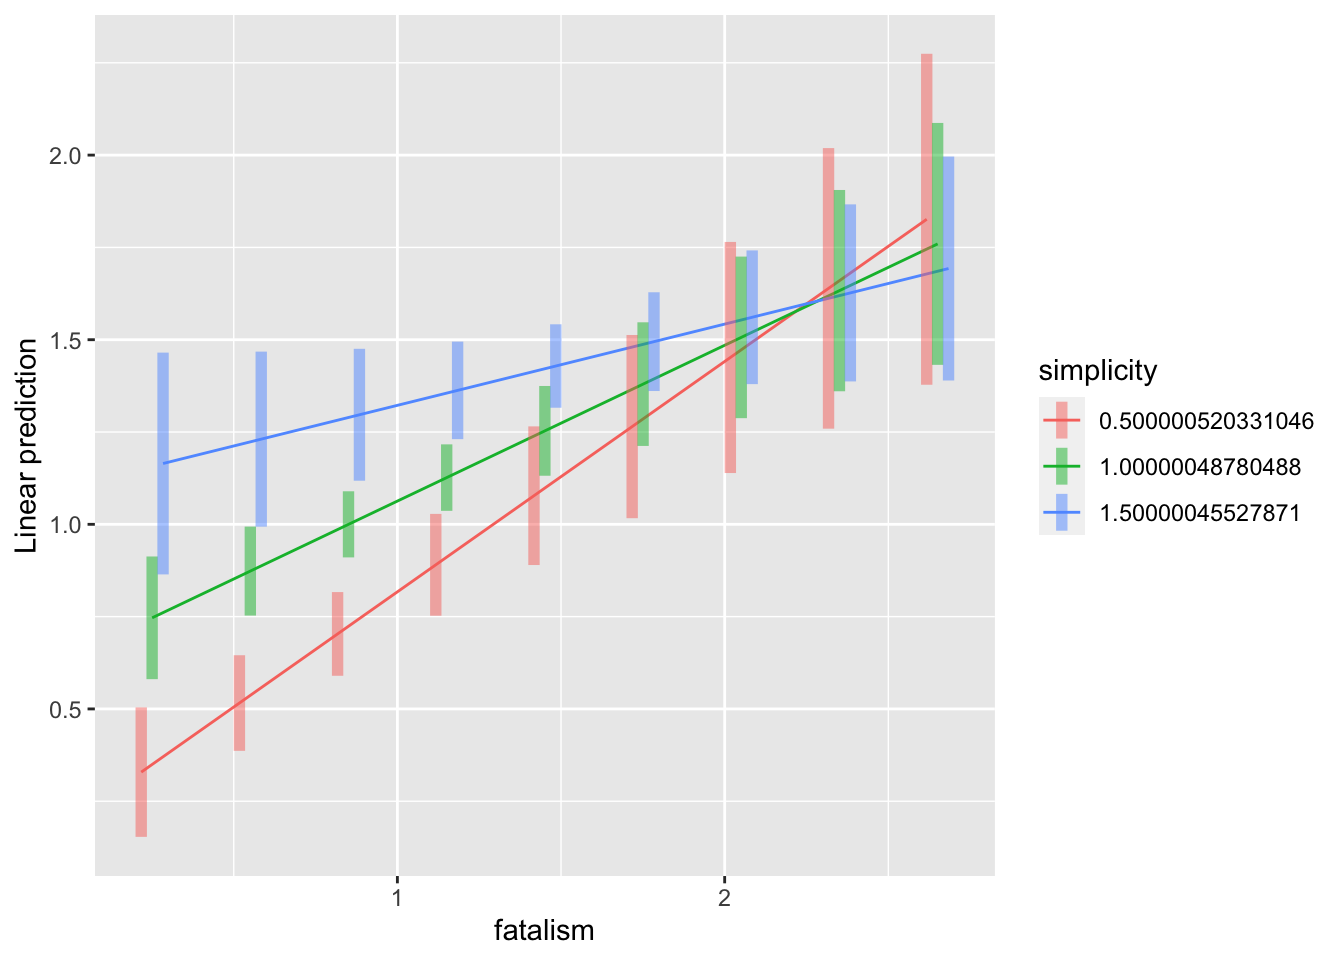
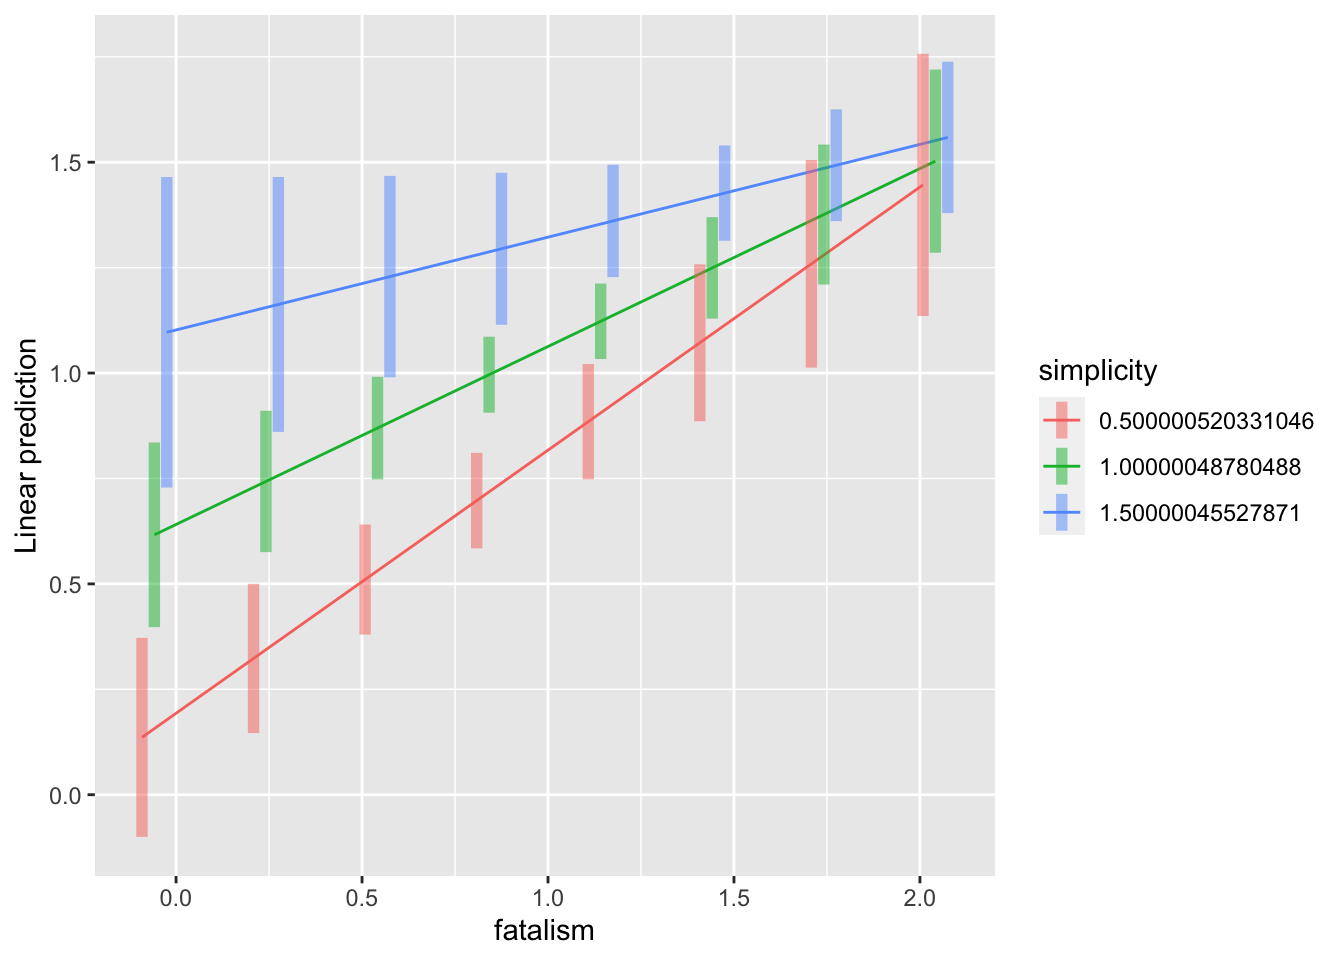
mediation update

diff --git a/docs/SURVEY_Lab12.html b/docs/SURVEY_Lab12.html
@@ -510,6 +510,7 @@ locations &lt;- list(simplicity = c(simp_minus1, simp_mean, simp_plus1))
 locations</code></pre>
 <pre><code>## $simplicity
 ## [1] 0.5000005 1.0000005 1.5000005</code></pre>
+<p>ใช้คำสั่ง <code>emtrends()</code> เพื่อคำนวณค่า simple slopes ของตัวแปรทำนาย <code>fatalism</code> ที่ตำแหน่งต่าง ๆ ของตัวแปรกำกับ (W) <code>simplicity</code></p>
 <pre class="r"><code>emtrends(depression.lm, ~ simplicity , var = &quot;fatalism&quot;, at = locations)</code></pre>
 <pre><code>##  simplicity fatalism.trend     SE df lower.CL upper.CL
 ##         0.5          0.624 0.1188 78   0.3874    0.860
@@ -518,8 +519,16 @@ locations</code></pre>
 ## 
 ## Confidence level used: 0.95</code></pre>
 <p>สังเกตว่าค่า slope ระหว่าง fatalism กับ depression ลดลงเมื่อ simplicity สูงขึ้น</p>
-<pre class="r"><code>xy_value &lt;- list(fatalism = c(seq(min(depression$simplicity), max(depression$simplicity),
-                                  by = .3)),
+</div>
+<div id="plotting-interaction" class="section level2">
+<h2>Plotting interaction</h2>
+<p>ใช้คำสั่ง <code>emmip()</code> ในการสร้างกราฟ โดยจะต้องระบุว่าจะให้ plot ค่าตัวแปร x และ y ที่จุดใดบ้าง</p>
+<p>เราจะสร้าง list กำหนดค่าแกน x ตั้งชื่อตามตัวแปร <code>fatalism</code> โดยกำหนดให้มีค่าตั้งแต่ <code>min()</code> ถึง <code>max()</code> ของ <code>fatalism</code> ขยับขึ้นทีละ 0.3 หน่วย</p>
+<p>กำหนดค่าตัวแปรกำกับ 3 ตำแหน่ง ที่ -1 SD, mean, +1SD ของตัวแปร <code>simplicity</code></p>
+<p>ในคำสั่ง <code>emmip()</code> กำหนดว่าตัวแปรใดเป็นตัวแปรทำนายหรือตัวแปรกำกับ ในรูปแบบ <code>W ~ X</code></p>
+<p>คำสั่ง <code>at =</code> ใช้บอกว่าจะให้สร้างกราฟที่ค่า x y เท่าใด และ <code>CIs =</code> กำหนดว่าจะสร้าง error bars หรือไม่</p>
+<pre class="r"><code>xy_value &lt;- list(fatalism = c(seq(min(depression$fatalism), max(depression$fatalism),
+                                  by = 0.3)),
                  simplicity = c(simp_minus1, simp_mean, simp_plus1))
 emmip(depression.lm, simplicity ~ fatalism, at = xy_value, CIs = TRUE)</code></pre>
 <p><img src="SURVEY_Lab12_files/figure-html/interaction%20plot-1.png" width="672" /></p>
